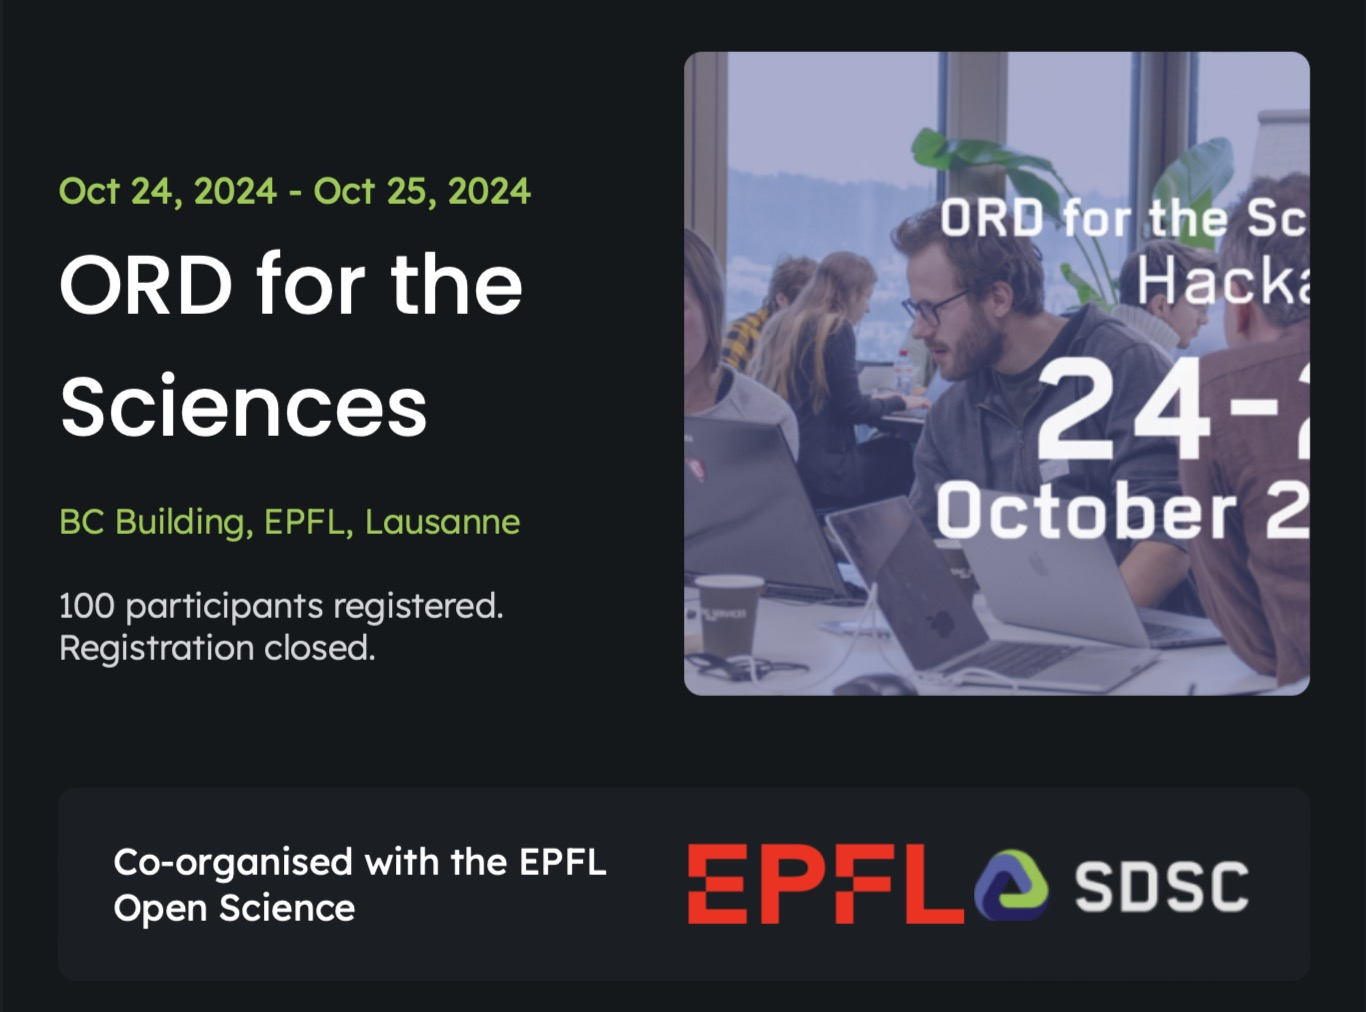
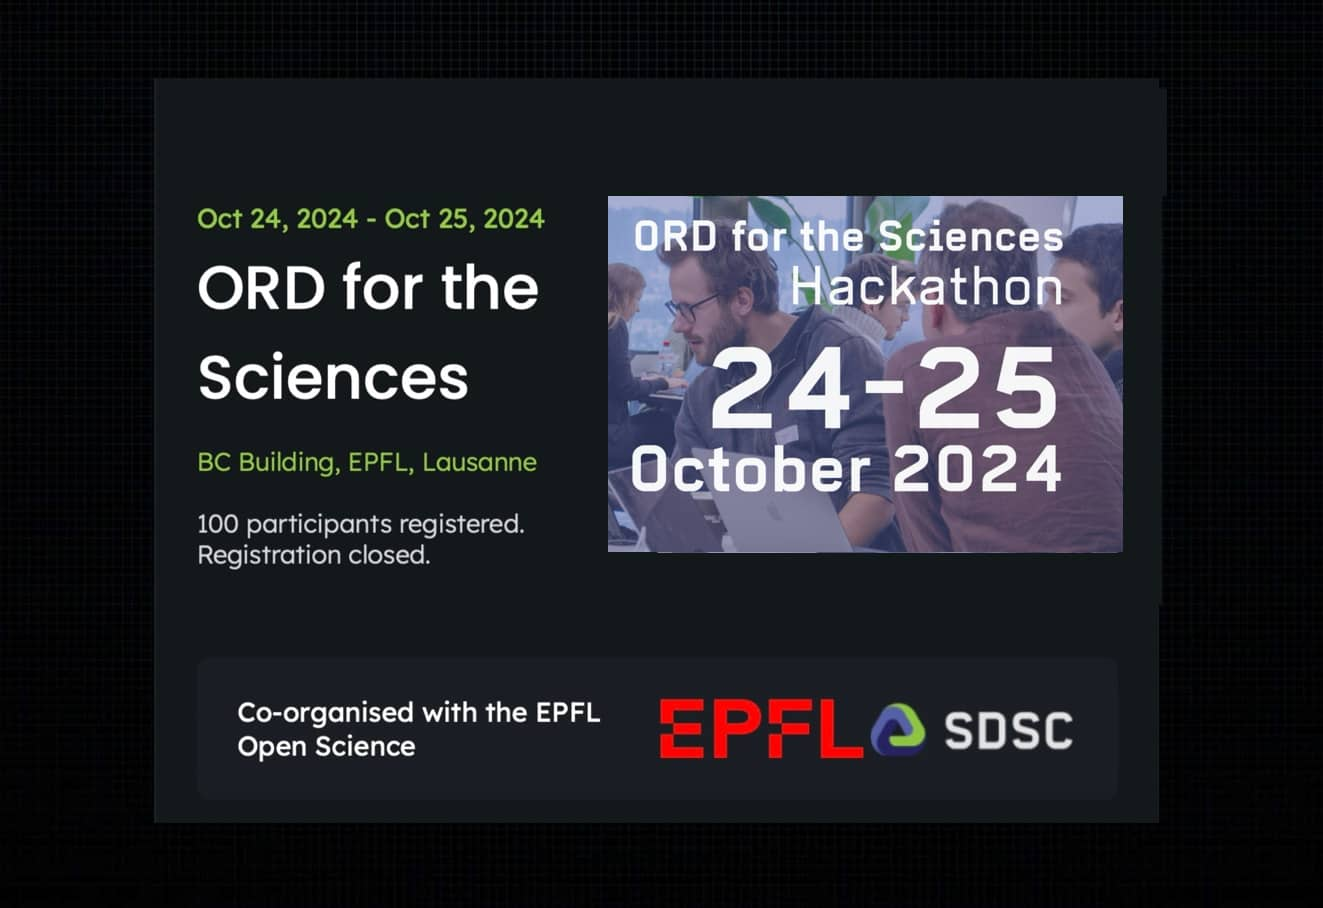
Optimized photos, removed unnecessary files

diff --git a/app/page.tsx b/app/page.tsx
@@ -336,7 +336,7 @@ export default function CV() {
               rel="noopener noreferrer"
             >
               <Image
-                src="/images/ORD-for-the-sciences-epfl.png"
+                src="/images/ORD-for-the-sciences-epfl.jpg"
                 alt="ORD-for-the-sciences"
                 width={1300}
                 height={1000}
@@ -356,7 +356,7 @@ export default function CV() {
               rel="noopener noreferrer"
             >
               <Image
-                src="/images/energy-hackadays.png"
+                src="/images/energy-hackadays.jpg"
                 alt="Energy Hackathon"
                 width={1300}
                 height={1000}
@@ -398,7 +398,7 @@ export default function CV() {
               rel="noopener noreferrer"
             >
               <Image
-                src="/images/french_soc_log.png"
+                src="/images/french_soc_log.jpg"
                 alt="Activity Logo"
                 width={1300}
                 height={1000}
